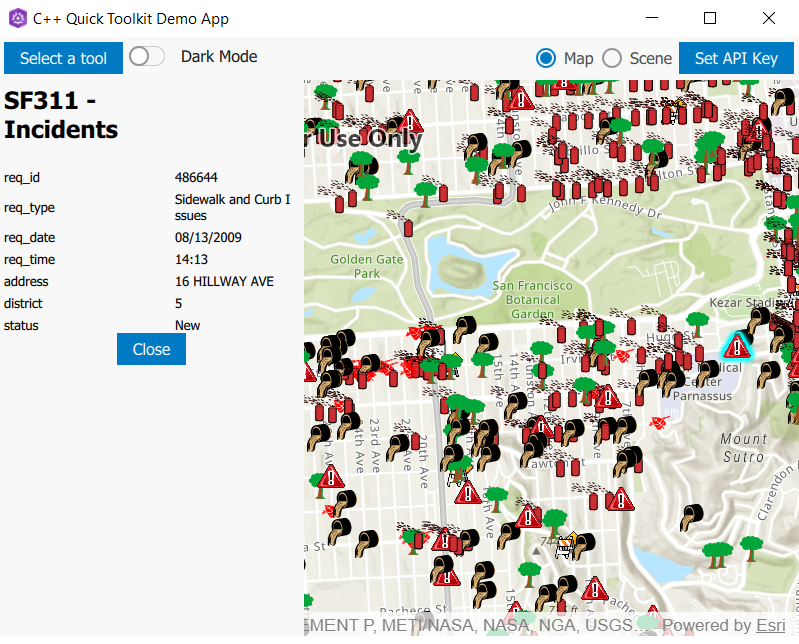
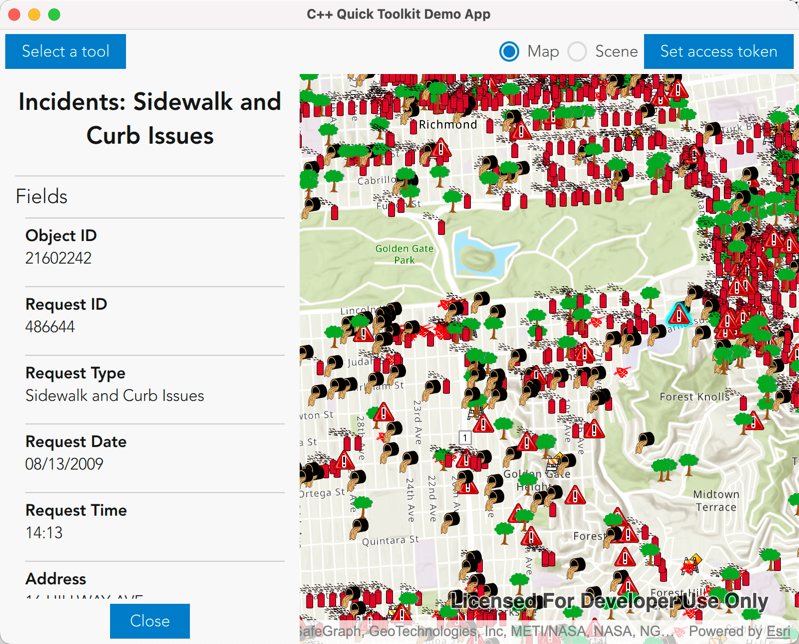
Jared/popup doc fixvnext (#752)
* updating toolkit doc and example app

* forgot a file

* no newline please

* typo

* image updated

* snagit tricked me on size

diff --git a/uitools/examples/qml/demos/PopupViewDemoForm.qml b/uitools/examples/qml/demos/PopupViewDemoForm.qml
@@ -34,14 +34,14 @@ DemoPage {
                      bottom: parent.bottom
                 }
                 visible: false
-                popupManager: model.popupManager
+                popup: model.popup
             }
             //! [Set up Popup View QML]
 
             PopupViewDemo {
                 id: model
                 geoView : view
-                onPopupManagerChanged : popupView.visible = true;
+                onPopupChanged: popupView.visible = true;
             }
         }
     }
@@ -53,19 +53,20 @@ DemoPage {
             PopupView {
                 id:popupView
                 anchors {
-                     left: parent.left
-                     top: parent.top
-                     bottom: parent.bottom
+                    left: parent.left
+                    top: parent.top
+                    bottom: parent.bottom
                 }
                 visible: false
-                popupManager: model.popupManager
+                popup: model.popup
             }
 
             PopupViewDemo {
                 id: model
                 geoView : view
-                onPopupManagerChanged: popupView.visible = true;
+                onPopupChanged: popupView.visible = true;
             }
+
         }
     }
 }

diff --git a/uitools/examples/src/demos/PopupViewDemo.cpp b/uitools/examples/src/demos/PopupViewDemo.cpp
@@ -73,20 +73,23 @@ Scene* PopupViewDemo::initScene_(QObject* parent) const
   return scene;
 }
 
-QObject* PopupViewDemo::popupManager_()
+Popup* PopupViewDemo::popup()
 {
-  return m_popupManager;
+  return m_popup;
 }
 
-void PopupViewDemo::setPopupManager_(QObject* popupManager)
+void PopupViewDemo::setPopup(Popup* popup)
 {
-  if (popupManager == m_popupManager)
+  if (m_popup == popup)
     return;
 
-  auto oldManager = m_popupManager;
-  m_popupManager = popupManager;
-  emit popupManagerChanged();
-  delete oldManager;
+  if (m_popup)
+  {
+    m_popup->deleteLater();
+  }
+
+  m_popup = popup;
+  emit popupChanged();
 }
 
 void PopupViewDemo::setUp()
@@ -96,7 +99,7 @@ void PopupViewDemo::setUp()
           using ViewType = std::remove_pointer_t<decltype(geoView)>;
           connect(geoView, &ViewType::mouseClicked, this, [this, geoView](QMouseEvent& mouse)
                   {
-                    auto layer = geoModel()->operationalLayers()->first();
+              auto layer = geoModel()->operationalLayers()->at(0);
                     if (layer->layerType() == LayerType::FeatureLayer)
                     {
                       m_featureLayer = static_cast<FeatureLayer*>(layer);
@@ -117,30 +120,29 @@ void PopupViewDemo::setUp()
                         m_featureLayer->clearSelection();
 
                         const auto geoElements = identifyResult->geoElements();
-                        for (auto element : geoElements)
-                        {
-                          if (nullptr != element)
-                          {
-                            // add the element to the list and take ownership of it.
-                            Feature* feature = static_cast<Feature*>(element);
-                            m_featureLayer->selectFeature(feature);
-                          }
-                        }
 
-                        if (identifyResult->geoElements().length() == 0)
+                        if (geoElements.length() == 0)
                         {
                           qDebug() << "no geoElements";
                           return;
                         }
 
-                        Popup* popup = new Popup(identifyResult->geoElements().first());
-                        popup->popupDefinition()->setTitle(identifyResult->layerContent()->name());
+                        const auto popup = new Popup(geoElements.first(), this);
+                        popup->setParent(this);
 
-                        PopupManager* popupManager = new PopupManager{popup, this};
-                        popup->setParent(popupManager);
+                        if (popup->title().isEmpty())
+                        {
+                          popup->popupDefinition()->setTitle(identifyResult->layerContent()->name());
+                        }
 
-                        setPopupManager_(popupManager);
-                        emit popupManagerChanged();
+                        if (auto element = popup->geoElement())
+                        {
+                          Feature* feature = static_cast<Feature*>(element);
+                          m_featureLayer->selectFeature(feature);
+                        }
+
+                        setPopup(popup);
+                        emit popupChanged();
                       });
                     }
                     else

diff --git a/uitools/examples/src/demos/PopupViewDemo.h b/uitools/examples/src/demos/PopupViewDemo.h
@@ -17,17 +17,23 @@
 #ifndef ARCGIS_RUNTIME_TOOLKIT_CPP_QUICK_DEMO_POPUPVIEWDEMO_H
 #define ARCGIS_RUNTIME_TOOLKIT_CPP_QUICK_DEMO_POPUPVIEWDEMO_H
 
-#include "BaseDemo.h"
+// C++ API headers
 #include "FeatureLayer.h"
+#include "Popup.h"
 #include "PopupManager.h"
 
+// Qt headers
 #include <QObject>
 #include <QQmlEngine>
+
+// Other headers
+#include "BaseDemo.h"
 
 class PopupViewDemo : public BaseDemo
 {
   Q_OBJECT
-  Q_PROPERTY(QObject* popupManager READ popupManager_ WRITE setPopupManager_ NOTIFY popupManagerChanged)
+  Q_PROPERTY(Esri::ArcGISRuntime::Popup* popup READ popup WRITE setPopup NOTIFY popupChanged)
+
   QML_ELEMENT
 public:
   Q_INVOKABLE PopupViewDemo(QObject* parent = nullptr);
@@ -38,18 +44,18 @@ protected:
   Esri::ArcGISRuntime::Scene* initScene_(QObject* parent) const override;
 
 signals:
-  void popupManagerChanged();
+  void popupChanged();
 
 private slots:
   void setUp();
 
 private:
-  QObject* popupManager_();
-  void setPopupManager_(QObject* popupManager);
+  Esri::ArcGISRuntime::Popup* popup();
+  void setPopup(Esri::ArcGISRuntime::Popup* popup);
 
 private:
   Esri::ArcGISRuntime::FeatureLayer* m_featureLayer = nullptr;
-  QObject* m_popupManager = nullptr;
+  Esri::ArcGISRuntime::Popup* m_popup = nullptr;
 };
 
 #endif // ARCGIS_RUNTIME_TOOLKIT_CPP_QUICK_DEMO_POPUPVIEWDEMO_H

diff --git a/uitools/toolkitcpp/docs/PopupView.md b/uitools/toolkitcpp/docs/PopupView.md
@@ -2,17 +2,18 @@
 
 # PopupView - Qt Quick UI/QML Type
 
-The [PopupView - Qt Quick UI/QML Type](https://developers.arcgis.com/qt/toolkit/api-reference/qml-esri-arcgisruntime-toolkit-popupview.html) control provides a view for displaying and editing information about a feature. A PopupView can be used to display information for any type that implements the PopupSource interface. For example, FeatureLayer implements PopupSource. This means that it has a PopupDefinition, which defines how the Popup should look for any features in that layer. An example workflow for displaying a PopupView for a feature in a FeatureLayer would be:
+The [PopupView - Qt Quick UI/QML Type](https://developers.arcgis.com/qt/toolkit/api-reference/qml-esri-arcgisruntime-toolkit-popupview.html) control provides a view for displaying information about a feature. A PopupView can be used to display information for any type that implements the PopupSource interface. For example, FeatureLayer implements PopupSource. This means that it has a PopupDefinition, which defines how the Popup should look for any features in that layer. An example workflow for displaying a PopupView for a feature in a FeatureLayer would be:
 
 - Declare a PopupView and anchor it to a desired location.
 - Perform an identify operation on a GeoView and select a Feature from the identify result.
 - Create a Popup from the Feature.
 - Optionally obtain the Popup's PopupDefinition and set the title, whether to show attachments, and so on.
-- Create a PopupManager from the Popup.
-- Assign the PopupView's popupManager property the PopupManager created in the previous step.
+- Assign the PopupView's popup property the Popup created in the previous step.
 
 The PopupView is a QML Item that can be anchored, given to a dialog, or positioned using XY screen coordinates. Transform, Transition, and other QML animation types can be used to animate the showing and dissmisal of the view. For more information, please see the Popup and PopupManager documentation.
 
-NOTE: Each time a change is made to the Popup, PopupDefinition, PopupManager, or any of their properties, the PopupManager must be re-set to the PopupView.
+NOTE: Each time a change is made to the Popup, PopupDefinition, or any of their properties, the PopupManager must be re-set to the PopupView.
+
+The PopupView 
 
 ![PopupView image](https://developers.arcgis.com/qt/toolkit/api-reference/images/popupview.png)
